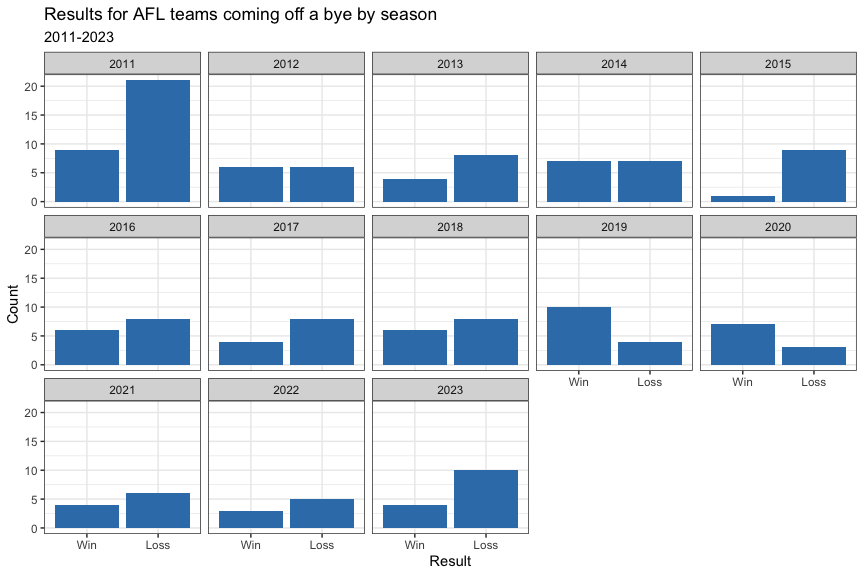
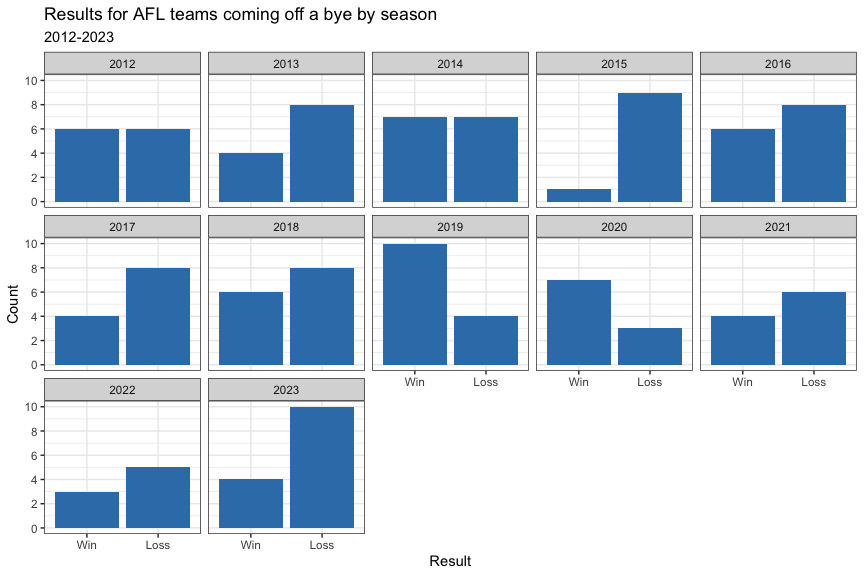
Changed mind: only use 2012 onwards for analysis

diff --git a/code/R/Rmd/bye_scoring/post_bye_results.md b/code/R/Rmd/bye_scoring/post_bye_results.md
@@ -1,7 +1,7 @@
 AFL: post-bye results
 ================
 Neil Saunders
-2023-07-04 14:45:28
+2023-07-04 15:57:19
 
 - [Summary](#summary)
 - [Data](#data)
@@ -137,7 +137,7 @@ much alphabetical sometimes as anything else!
 
 ### Post-bye rounds by teams coming off the bye
 
-Post-bye ames might feature one or both teams coming off a bye. If the
+Post-bye games might feature one or both teams coming off a bye. If the
 bye were a factor influencing the post-bye game, we might assume the
 effect would be stronger when only one team comes off a bye.
 
@@ -148,10 +148,13 @@ come off a bye, but the majority involve one post-bye team.
 
 ## Wins and losses
 
-Let’s start looking at wins and losses in post-bye games. In the
-following sections we look only at games where one team comes off a bye.
-We include season 2011 even though byes in that season were not
-mid-season.
+Let’s start looking at wins and losses in post-bye games.
+
+In the following sections we look only at games where one team comes off
+a bye.
+
+We also omit season 2011 so as to keep the focus on mid-season byes with
+18 teams.
 
 ### Distribution of margins by expected result
 
@@ -207,10 +210,10 @@ Home.Team
 Loss
 </td>
 <td style="text-align:right;">
-69
+59
 </td>
 <td style="text-align:right;">
-34
+23
 </td>
 </tr>
 <tr>
@@ -218,10 +221,10 @@ Loss
 Win
 </td>
 <td style="text-align:right;">
-34
+29
 </td>
 <td style="text-align:right;">
-37
+33
 </td>
 </tr>
 </tbody>
@@ -252,16 +255,16 @@ alternative
 <tbody>
 <tr>
 <td style="text-align:right;">
-2.198086
+2.896154
 </td>
 <td style="text-align:right;">
-0.0127839
+0.0031984
 </td>
 <td style="text-align:right;">
-1.133005
+1.379455
 </td>
 <td style="text-align:right;">
-4.305763
+6.197092
 </td>
 <td style="text-align:left;">
 Fisher’s Exact Test for Count Data
@@ -382,17 +385,17 @@ in this time period.
 **Summary** - we see:
 
 - a slightly *higher* percentage of unexpected results in post-bye games
-  compared with non-post-bye games played in the same rounds, or on the
-  same dates
+  compared with non-post-bye games played on the same dates
 - a slightly *lower* percentage of unexpected results in post-bye games
-  compared with all non-post-bye games in the same time period
+  compared with all non-post-bye games in the same time period, or in
+  the same rounds
 
 It’s probably best not to over-interpret here, until we have a clearer
 idea about what makes a good comparison.
 
 <table>
 <caption>
-Game results by favourite 2011-2023
+Game results by favourite 2012-2023
 </caption>
 <thead>
 <tr>
@@ -434,82 +437,82 @@ No/Win
 <tbody>
 <tr>
 <td style="text-align:left;">
-Post-bye games 2011-2023
+Post-bye games 2012-2023
 </td>
 <td style="text-align:right;">
-55
+48
 </td>
 <td style="text-align:right;">
-73
+60
 </td>
 <td style="text-align:right;">
-30
+22
 </td>
 <td style="text-align:right;">
-16
+14
 </td>
 <td style="text-align:right;">
-26.44
+25.00
 </td>
 </tr>
 <tr>
 <td style="text-align:left;">
-All non-post-bye games 2011-2023
+All non-post-bye games 2012-2023
 </td>
 <td style="text-align:right;">
-1015
+937
 </td>
 <td style="text-align:right;">
-634
+584
 </td>
 <td style="text-align:right;">
-382
+365
 </td>
 <td style="text-align:right;">
-297
+281
 </td>
 <td style="text-align:right;">
-29.17
+29.81
 </td>
 </tr>
 <tr>
 <td style="text-align:left;">
-Same round non-post-bye games 2011-2023
+Same round non-post-bye games 2012-2023
 </td>
 <td style="text-align:right;">
-133
+64
 </td>
 <td style="text-align:right;">
-80
+32
 </td>
 <td style="text-align:right;">
-39
+22
 </td>
 <td style="text-align:right;">
-28
+15
 </td>
 <td style="text-align:right;">
-23.93
+27.82
 </td>
 </tr>
 <tr>
 <td style="text-align:left;">
-Same date non-post-bye games 2011-2023
+Same date non-post-bye games 2012-2023
 </td>
 <td style="text-align:right;">
-61
+38
 </td>
 <td style="text-align:right;">
-34
+18
 </td>
 <td style="text-align:right;">
-13
+7
 </td>
 <td style="text-align:right;">
-10
+8
 </td>
 <td style="text-align:right;">
-19.49
+21.13
 </td>
 </tr>
 </tbody>
@@ -1017,7 +1020,7 @@ makes quite a difference to the numbers. Brisbane for example move from
 
 <table class="table table-striped" style="margin-left: auto; margin-right: auto;">
 <caption>
-Post-bye win-loss count 2011-2022
+Post-bye win-loss count 2012-2022
 </caption>
 <thead>
 <tr>
